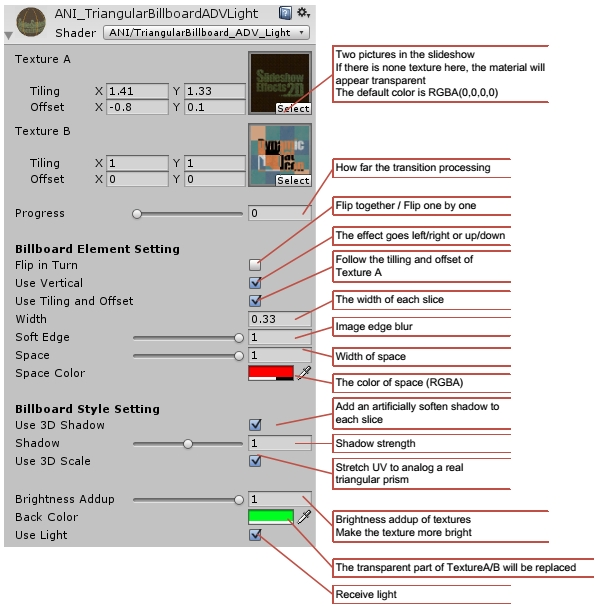
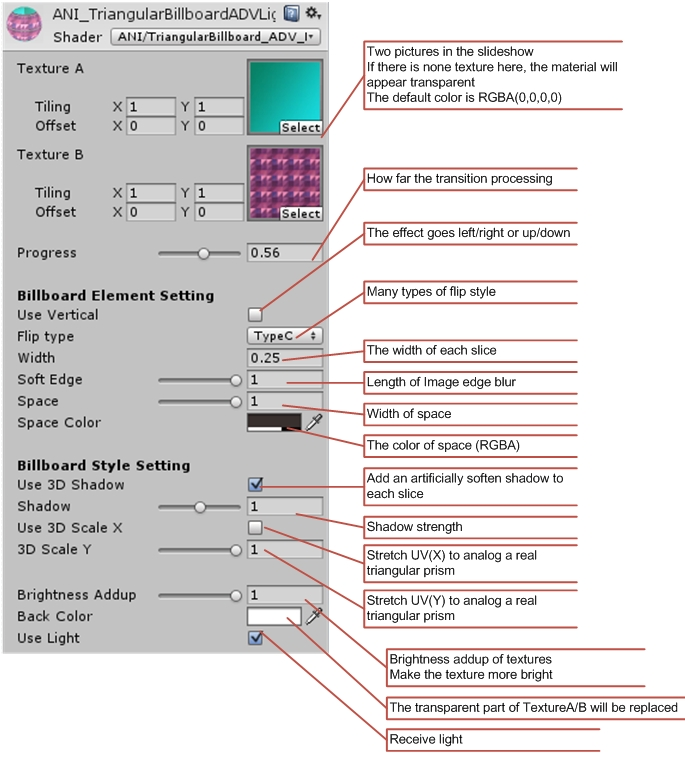
v1.2

diff --git a/docs/guideSE2.html b/docs/guideSE2.html
@@ -53,6 +53,10 @@
 	<div class="imgfield_noborder">
       <img src="filesSE2/imgSE_01.jpg"   /><br />         
 	</div>
+	<div class="imgfield_noborder">
+      <img src="filesSE2/imgSE_01_01.jpg"   /><br />
+        Start rotation offset       
+	</div>    
 	<br>
 	<div class="imgfield_noborder">
 		Differences between set Texture B as None and Check TO_TRANSPARENT:<br>
@@ -66,7 +70,10 @@
 	<div class="imgfield_noborder">
       <img src="filesSE2/imgSE_03.jpg"   /><br />         
 	</div> 
-    
+	<div class="imgfield_noborder">
+      <img src="filesSE2/imgSE_01_01.jpg"   /><br />
+        Start rotation offset       
+	</div>    
 	Textures with transparent parts supported. <br>
 	remove "alpha:fade" at <br>
     <div class="quotescript">
@@ -251,6 +258,17 @@
 </div>
 
 <div class="divdark">
+	<h2>Texture Sketch</h2>	
+    <div class="imgfield_noborder">
+ 	   <img src="filesSE2/imgSEv12_01.png"   /> <br>
+       Add a sketch texture to the main texture, with the grayscale of the mask texture.          
+	</div> 	
+	<div class="imgfield_noborder">
+ 	   <img src="filesSE2/imgSEv12_02.png"   />           
+	</div> 	
+</div>
+
+<div class="divdark">
   <h1>Grids and Pixelated:</h1>
   <div class="imgfield">
  	  <img src="filesSE2/imgSE_26.jpg"   /><br /> 
@@ -356,7 +374,87 @@
     <div class="quotescript">Tags {"Queue"="Transparent" } //cannot receive shadow</div>
     to receive shadow <br> 
 </div>
+<div class="divdark">
+	<h2>Flip types and Styles</h2>
+	
+    <div class="imgfield_noborder">
+ 	   <img src="filesSE2/imgSEv12_10.png"   />           
+	</div>   
+	<br>
+</div>
 
+
+<div class="divdark">
+  <h1>Bar Swipe:</h1>
+<br>
+<div class="imgfield">
+    <img src="filesSE2/imgSEv12_03.jpg" width="397"  /><br />     
+    Erase or swipe texture in bar or lines.
+</div> 
+</div>
+
+<div class="divdark">
+	<h2>Bar Swipe(Type1,Type2)</h2>
+	Bar Swipe1.<br>
+    <div class="imgfield_noborder">
+ 	   <img src="filesSE2/imgSEv12_04.png"   />           
+	</div>   
+	<br>
+	Bar Swipe2.<br>
+    <div class="imgfield_noborder">
+ 	   <img src="filesSE2/imgSEv12_05.png"   />           
+	</div>   
+	<br>    
+</div>
+
+<div class="divdark">
+	<h2>Bar Swipe(Wheel)</h2>
+	
+    <div class="imgfield">
+ 	   <img src="filesSE2/imgSEv12_06.jpg"   />  <br>
+       Bar swipe in a whirl-like style.         
+	</div>   
+	<br>
+	Bar Swipe2.<br>
+    <div class="imgfield_noborder">
+ 	   <img src="filesSE2/imgSEv12_07.png"   />           
+	</div>   
+	<br>    
+</div>
+
+
+<div class="divdark">
+  <h1>Texture Offset:</h1>
+<br>
+<div class="imgfield">
+    <img src="filesSE2/imgSEv12_08.jpg" width="461"  /><br />     
+    Offset the texture make an infinite cyclic background.
+</div> 
+</div>
+
+<div class="divdark">
+	<h2>background Loop</h2>
+	There are two types of background loop effect, BackgroundLoopT runs depend on system time, BackgroundLoopP works with the progress value.<br>
+    <div class="imgfield_noborder">
+ 	   <img src="filesSE2/imgSEv12_09.png"   />           
+	</div>   
+	<br> 
+</div>
+
+
+
+
+<div class="menu1">
+    <table width="100%"  align="center">
+  <tr align="right">
+    <td width="35%" align="right"></td>
+    <td width="20%"><a href="indexSE2.html">slideshow Effects</a></td>
+    <td width="15%"align="right"><a href="guideSE2.html">Guide</a></td>
+    <td width="15%"align="right"><a href="scriptSE2.html">Script</a></td>
+    <td width="15%"><a href="index.html">Home</a></td>
+  </tr>
+</table>
+</div>
 
 </div>
 

diff --git a/docs/scriptSE2.html b/docs/scriptSE2.html
@@ -120,12 +120,14 @@
               Wheel_Light</p></td>
             <td  valign="top"><p>_Progress(0~1)<br>
               _Edge (0~1) :size of soft edge<br>
-              _TexAddup(0~1)</p></td>
+              _TexAddup(0~1)<br>
+              _OffsetR(0~2*π):Offset of start rotation</p></td>
           </tr>
           <tr>
             <td valign="top"><p>Wheel(SurfaceShader)</p></td>
             <td  valign="top"><p>_Progress(0~1)<br>
               _Edge (0~1) :size of soft edge<br>
+              _OffsetR(0~2*π):Offset of start rotation<br>
               _TexAddup,_Glossiness,_Metallic (0~1)</p></td>
           </tr>
           <tr>
@@ -153,12 +155,34 @@
               _TexAddup(0~1)</p></td>
           </tr>
           <tr>
+            <td valign="top"><p>TexMaskSketch</p></td>
+            <td  valign="top"><p> _Threshold(0~1):Used as progress<br>
+          	  _ShadowS(0~1): Strength of sketch texture<br>
+              _SoftEdge (0~1):Size of soft edge</p></td>
+          </tr>       
+          <tr>
             <td valign="top"><p>PopUpRot_Mask<br>
               PopUpAndRotate</p></td>
             <td  valign="top"><p>_Position(Float): Scale or diameter of mask texture<br>
               _Rotation(0~360)<br>
               _TexAddup(0~1)</p></td>
           </tr>
+
+          <tr>
+            <td valign="top"><p>ANI_barswipe<br>
+              ANI_barswipe2</p></td>
+            <td  valign="top"><p>_Progress(0~1)<br>
+              _Rotation(0~360)</p></td>
+          </tr>  
+          <tr>
+            <td valign="top"><p>ANI_barswipeWhirl</p></td>
+            <td  valign="top"><p>_Progress(0~1)</p></td>
+          </tr>                      
+          <tr>
+            <td valign="top"><p>BackgroundLoop</p></td>
+            <td  valign="top"><p>_Progress(0~1)</p></td>
+          </tr>          
+          
         </table>
        
 	</div> 

diff --git a/docs/indexSE2.html b/docs/indexSE2.html
@@ -58,6 +58,13 @@
  <h3>◆Popup and Rotate:</h3>
 &nbsp;&nbsp;Popup and Rotate:Make a texture zoomed and rotate.<br> 
 
+ <h3>◆Bar Swipe:</h3>
+&nbsp;&nbsp;Erase or swipe texture in bar or lines.<br> 
+ <h3>◆Texture Offset:</h3>
+&nbsp;&nbsp;Offset the texture make an infinite cyclic background.<br> 
+
+
+
 </div>
 
 
